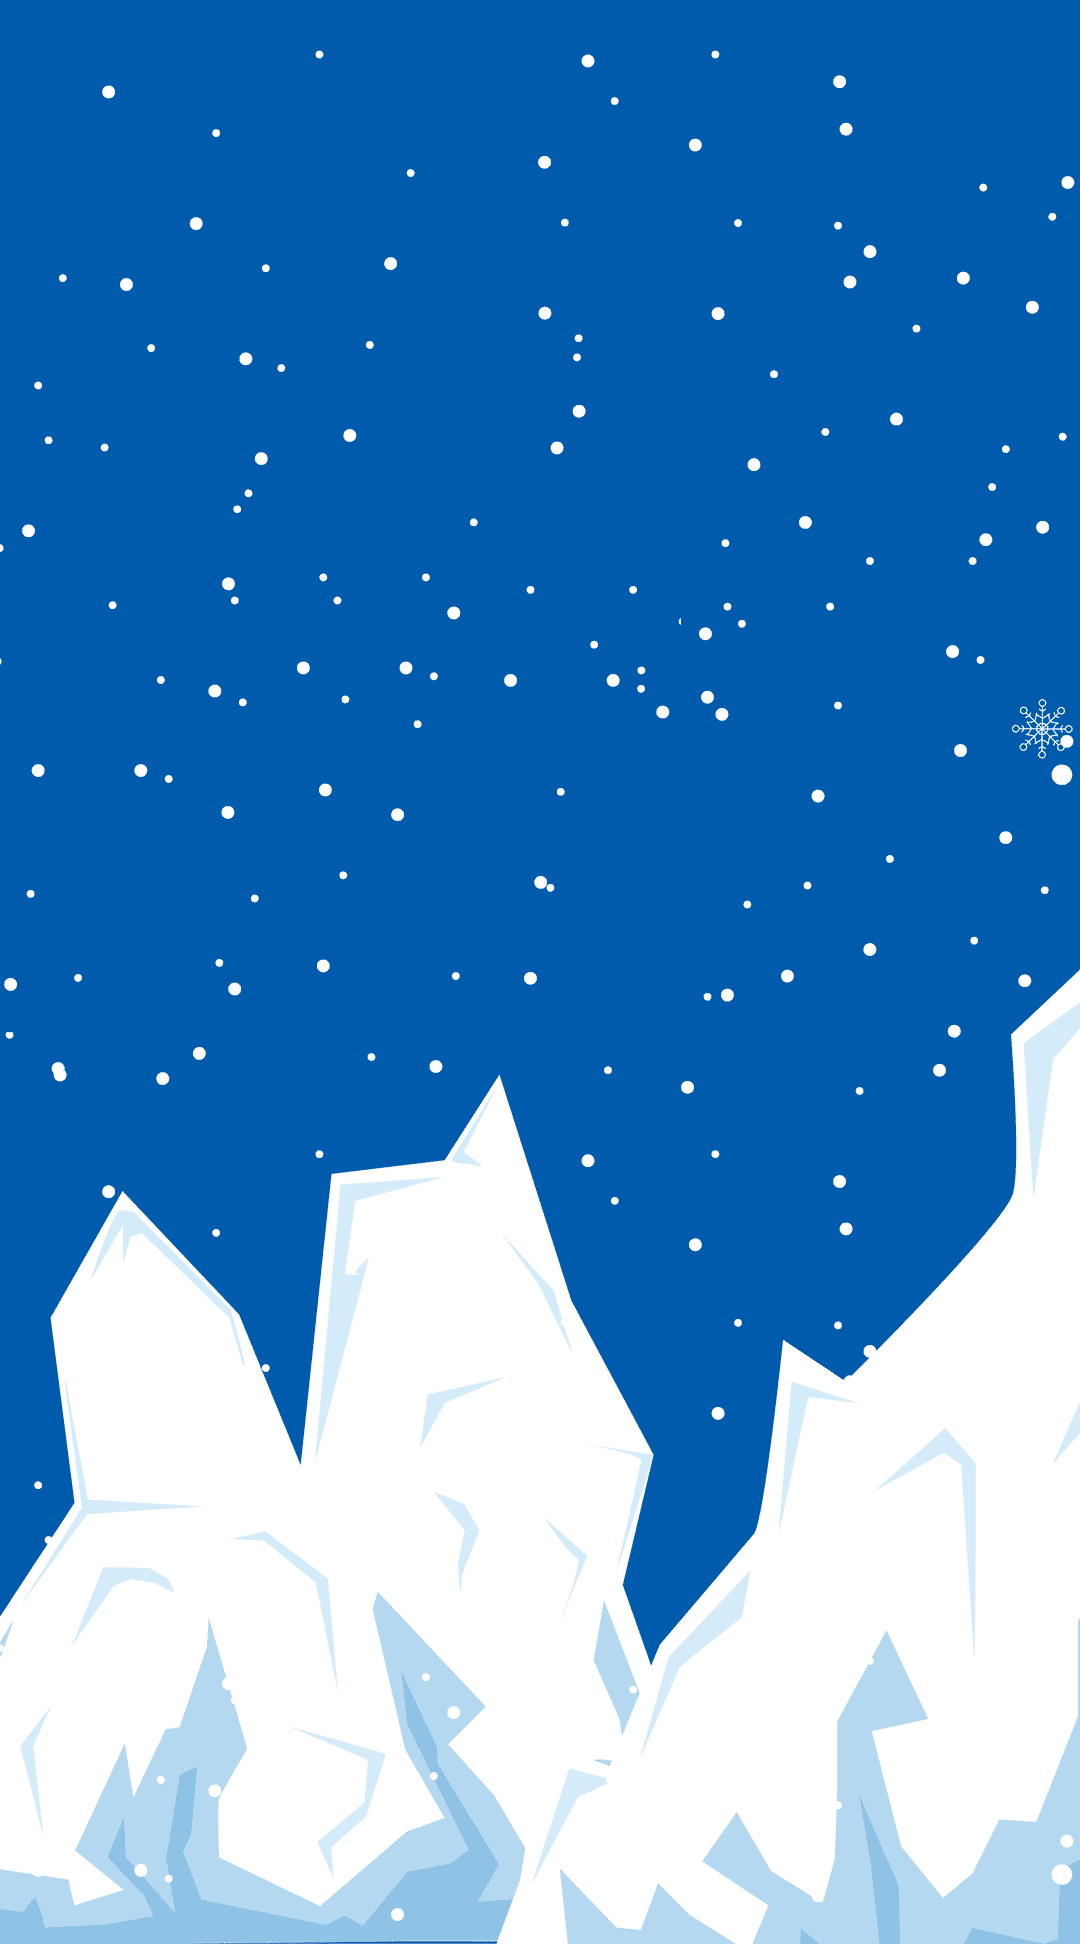
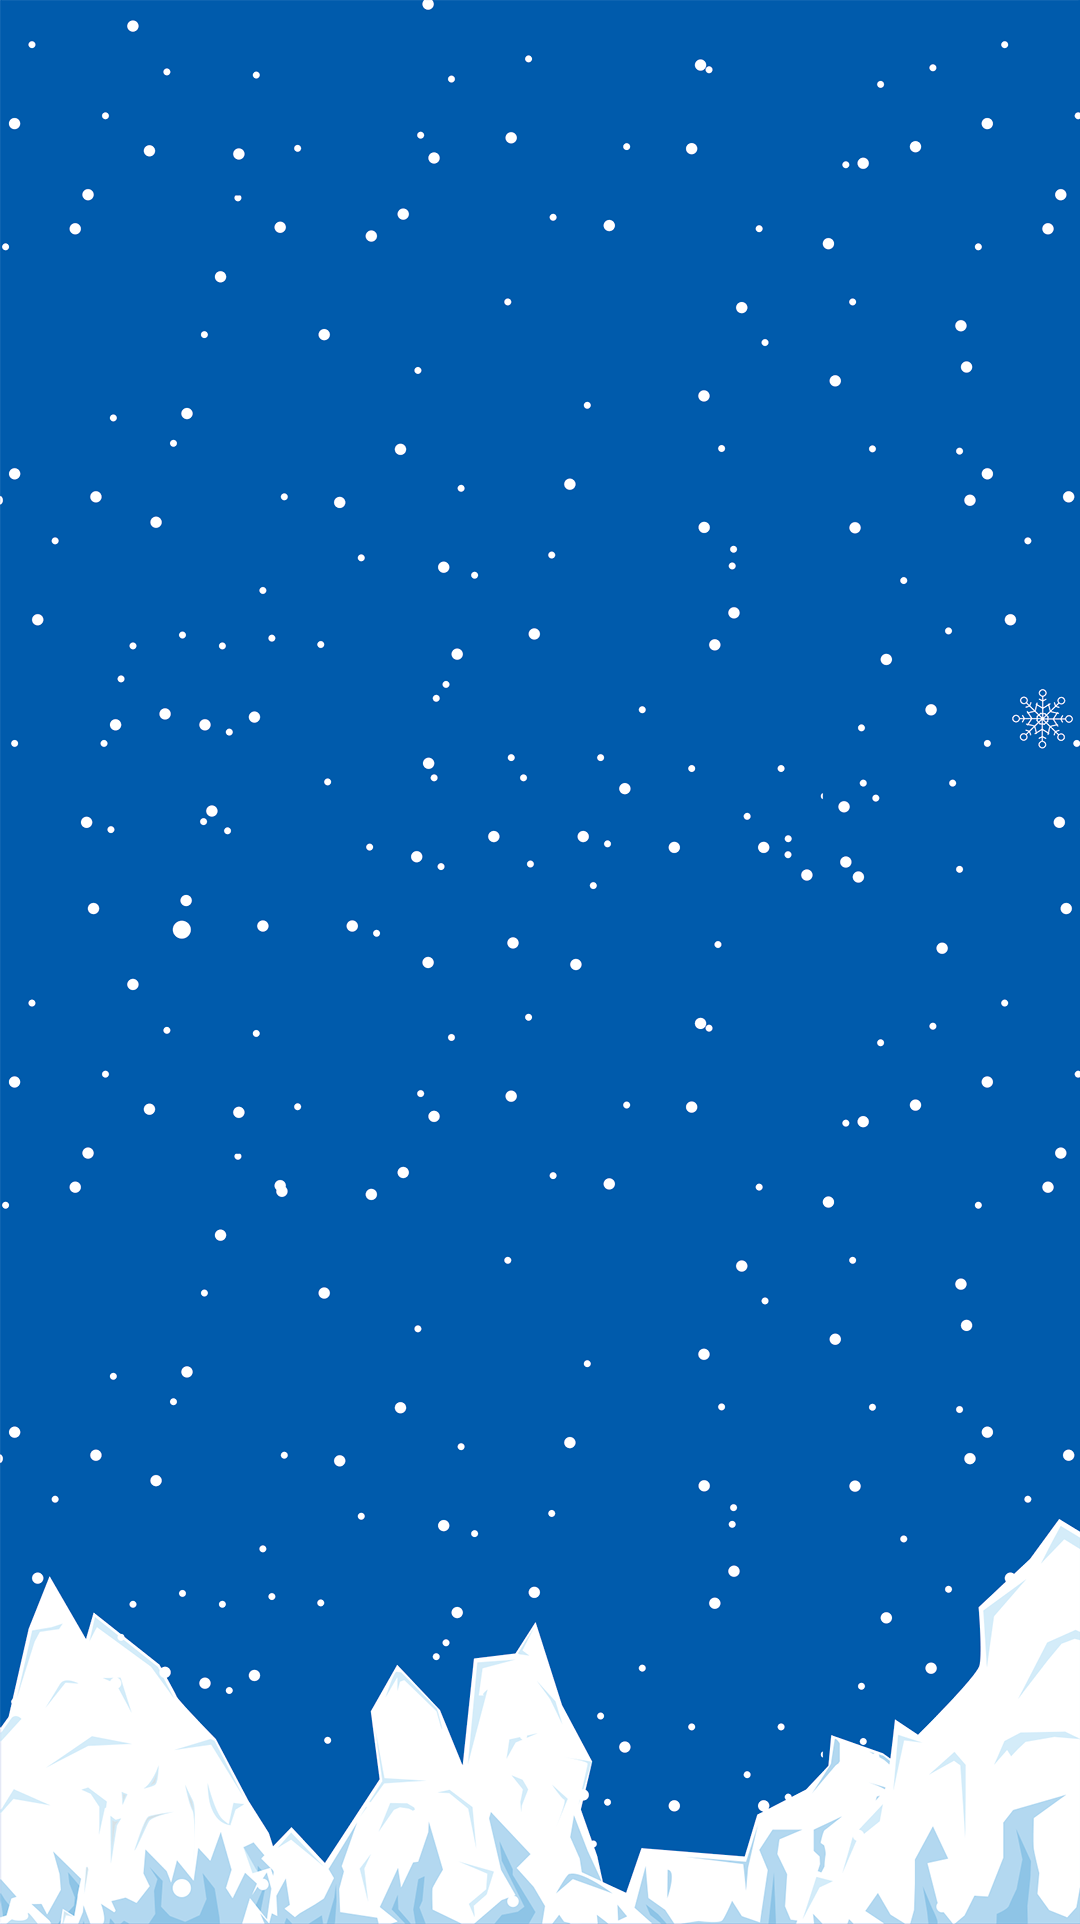
页面动态数据完成

diff --git a/Mobile/views/chapter.html b/Mobile/views/chapter.html
@@ -1,5 +1,5 @@
-<div class="page chaptercontainer">
-    <div class="chapter_content_bg"></div>
+<div class="page chaptercontainer" style="background: url({{$chaptercontent.chapter.chapterbg}}); background-size: 100% 100%;">
+    <div class="chapter_content_bg" style="background: url({{$chaptercontent.chapter.contentbg}}) no-repeat; background-size: 100% auto; background-position: center center;"></div>
     <div id="FavBox" class="favbox">
         <img src="Mobile/images/followus/followus_close.png" class="favbox_close" ng-click="hideFav($event)">
         <img src="Mobile/images/book/book_fav_bg.png" class="favbox_text">
@@ -8,49 +8,14 @@
 	<div class="chaptercontent">
         <div id="ContentBox" class="contentbox">
             <div class="content_tab">
-                <div class="content_tab_item">
-                    <img src="Mobile/images/chapter/chapter_tab_item_img1.png" class="content_tab_item_img" ng-click="showChapterContent($event)">
-                    <img src="Mobile/images/chapter/chapter_tab_item_img1_hover.png" class="content_tab_item_img_hover show">
-                </div>
-                <div class="content_tab_item">
-                    <img src="Mobile/images/chapter/chapter_tab_item_img2.png" class="content_tab_item_img show" ng-click="showChapterContent($event)">
-                    <img src="Mobile/images/chapter/chapter_tab_item_img2_hover.png" class="content_tab_item_img_hover">
-                </div>
-                <div class="content_tab_item">
-                    <img src="Mobile/images/chapter/chapter_tab_item_img3.png" class="content_tab_item_img show" ng-click="showChapterContent($event)">
-                    <img src="Mobile/images/chapter/chapter_tab_item_img3_hover.png" class="content_tab_item_img_hover">
+                <div class="content_tab_item" ng-repeat="$content in $chaptercontent.content">
+                    <img ng-src="{{$content.titleicon}}" class="content_tab_item_img {{$content.iconclass}}" ng-click="showChapterContent($event)">
+                    <img ng-src="{{$content.titleiconhover}}" class="content_tab_item_img_hover {{$content.iconhoverclass}}">
                 </div>
             </div>
             <div class="content_body">
-                <div class="content_body_item show">
-                    <p>（1）收听预报</p>
-                    <p>（2）饮食清淡</p>
-                    <p>多喝凉<font color="red">白开水、冷盐水、白菊花水、绿豆汤</font>等防暑饮品；多吃新鲜瓜果蔬菜，少吃油腻食品。</p>
-                    <p>（3）睡眠充足</p>
-                    <p>（4）户外防晒</p>
-                    <p>减少白天户外活动时间，外出最好<font color="red">打伞、戴帽、戴太阳镜、涂防晒霜</font>，避免强光灼伤眼睛和皮肤。</p>
-                    <p>（5）老弱慎动</p>
-                    <p>老人、体弱者和高血压、心肺疾病患者应减少活动，如有胸闷、气短等症状应及早就医。</p>
-                    <p>（6）积极运动</p>
-                    <p>积极运动积极运动，<font color="red">积极运动，积极运动积极运动积极运动</font>，积极运动积极运动积极运动积极运动积极运动。</p>
-                </div>
-                <div class="content_body_item">
-                    <p>（1）测试内容</p>
-                    <p>（2）测试内容</p>
-                    <p>测试内容<font color="red">测试内容、测试内容</font>测试内容，测试内容，测试内容。</p>
-                    <p>（3）测试内容</p>
-                    <p>（4）测试内容</p>
-                    <p>测试内容，测试内容，测试内容<font color="red">测试内容、测试内容、测试内容</font>，测试内容测试内容。</p>
-                    <p>（5）老弱慎动</p>
-                    <p>测试内容测试内容，测试内容，测试内容测试内容测试内容。</p>
-                </div>
-                <div class="content_body_item">
-                    <p>（1）温馨提示</p>
-                    <p>（2）温馨提示</p>
-                    <p>温馨提示<font color="red">白开水、冷盐水、白菊花水、绿豆汤</font>等防暑饮品；多吃新鲜瓜果蔬菜，少吃油腻食品。</p>
-                    <p>（3）温馨提示</p>
-                    <p>（4）温馨提示</p>
-                    <p>温馨提示温馨提示，温馨提示<font color="red">打伞、戴帽、戴太阳镜、涂防晒霜</font>，避免强光灼伤眼睛和皮肤。</p>
+                <div class="content_body_item {{$content.contentclass}}" ng-repeat="$content in $chaptercontent.content">
+                    <div ng-bind-html="$content.content"></div>
                 </div>
             </div>
         </div>

diff --git a/Mobile/js/controller/book.controller.js b/Mobile/js/controller/book.controller.js
@@ -8,9 +8,11 @@ define(["require", "app", "commoncontroller"], function ($require, $app){
 		'$route',
 		'$routeParams',
 		'$location',
+		'$sce',
 		'BookService',
-		function ($scope, $controller, $route, $routeParams, $location, $BookService){
+		function ($scope, $controller, $route, $routeParams, $location, $sce, $BookService){
 			$scope.bookid = 0;
+			$scope.chapterid = 0;
 			$scope.$chapterlist = {};
 
 			var CommonController = $controller('CommonController', {$scope: $scope});
@@ -32,6 +34,31 @@ define(["require", "app", "commoncontroller"], function ($require, $app){
 					$scope.$chapterlist = $scope.apiResult($BookService.chapterlist);
 				});
 			};
+
+			//获取目录内容
+			$scope.getChapterContent = function () {
+				//service交互 - getChaptercontent
+				var params = {
+					chapterid: $scope.chapterid
+				}
+				$BookService.getChaptercontent(params);
+				//监听事件 - getChaptercontent.success
+				$scope.$on('getChaptercontent.success', function (event, d){
+					$scope.$chaptercontent = $scope.apiResult($BookService.chaptercontent);
+					for (index in $scope.$chaptercontent.content) {
+						$scope.$chaptercontent.content[index].iconclass = 'show';
+						$scope.$chaptercontent.content[index].iconhoverclass = '';
+						$scope.$chaptercontent.content[index].contentclass = '';
+						if (index == 0) {
+							$scope.$chaptercontent.content[index].iconclass = '';
+							$scope.$chaptercontent.content[index].iconhoverclass = 'show';
+							$scope.$chaptercontent.content[index].contentclass = 'show';
+						}
+
+						$scope.$chaptercontent.content[index].content = $sce.trustAsHtml($scope.$chaptercontent.content[index].content);
+					}
+				});
+			}
 
 			//chapter-章节tab切换
 			$scope.showChapterContent = function (e) {
@@ -119,6 +146,9 @@ define(["require", "app", "commoncontroller"], function ($require, $app){
 					$scope.showBookChapter();
 					break;
 				case '/chapter/bookid/:bookid/chapterid/:chapterid':
+					$scope.bookid = $routeParams.bookid;
+					$scope.chapterid = $routeParams.chapterid;
+					$scope.getChapterContent();
 					break;
 				case '/aboutus':
 					$scope.aboutusTextScroll();

diff --git a/Mobile/js/config.js b/Mobile/js/config.js
@@ -9,6 +9,7 @@ requirejs.config({
 		"jquery": "../assets/jquery/jquery-2.1.4.min",
 		"angular": "../assets/angular-1.4.2/angular.min",
 		"angular-route": "../assets/angular-1.4.2/angular-route.min",
+		"angular-sanitize": "../assets/angular-1.4.2/angular-sanitize.min",
 		"commoncontroller": "controller/common.controller",
 		"bookcontroller": "controller/book.controller",
 		"bookservice": "service/book.service"
@@ -21,6 +22,10 @@ requirejs.config({
 		"angular-route": {
 			deps: ["angular"],
 			exports: "angular-route"
+		},
+		"angular-sanitize": {
+			deps: ["angular"],
+			exports: "angular-sanitize"
 		}
 	}
 	//不缓存js

diff --git a/Mobile/js/app.js b/Mobile/js/app.js
@@ -1,7 +1,7 @@
 //appjs
-define(["require", "jquery", "angular", "angular-route"], function (require, jquery, angular){
+define(["require", "jquery", "angular", "angular-route", "angular-sanitize"], function (require, jquery, angular){
     //注册angular.module-WebApp
-	var WebApp = angular.module("WebApp", ["ngRoute"]);
+	var WebApp = angular.module("WebApp", ["ngRoute","ngSanitize"]);
 
 	//配置angularmodule
 	WebApp.config(['$routeProvider', function($routeProvider) {

diff --git a/Mobile/styles/common.css b/Mobile/styles/common.css
@@ -310,7 +310,7 @@
 .chaptercontainer {
     width: 100%;
     height: 100%;
-    background: url("../images/chapter/chapter_bg.png");
+    /*background: url("../images/chapter/chapter_bg.png");*/
     background-size: 100% 100%;
 }
 .chaptercontainer .chapter_content_bg {

diff --git a/Mobile/js/api.js b/Mobile/js/api.js
@@ -1,6 +1,6 @@
 define([], function (){
     return {
-        host: "http://www.wanganyi.net/saviorbook/",
+        host: "http://localhost/work/saviorbook/",
         book: {
             chapterlist: {
                 m: "get",
